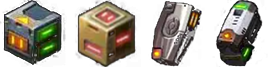
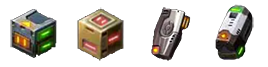
Primary edition of the physical engine has been constructed successfully; Beautified the texture of several items;

diff --git a/source/super/physics.py b/source/super/physics.py
@@ -1,0 +1,141 @@
+from cocos.director import director
+from cocos.euclid import Vector2
+from cocos.rect import Rect
+
+
+class Physics2(object):
+    def __init__(self, m=1, x=Vector2(0, 0), v=Vector2(0, 0), drag_c=0):
+
+        # Basic physical quantities
+        self._m = m
+        self._x = x
+        self._v = v
+        self._a = Vector2(0, 0)
+        self._f = Vector2(0, 0)
+
+        # Limits
+        self._max_v_norm = None
+        self._max_a_norm = None
+
+        self._x_boundary = Rect(0, 0, *director.get_window_size())
+
+        # About External Force
+        self._ex_force = {}
+        # Coefficient of air drag
+        self.drag_c = drag_c
+        # Scale of motion
+        self.motion_scale = 1
+
+    def update(self, dt):
+        self._update_drag()
+
+        # Kinetics Formulas
+        dv = self.a * dt
+        dx = self.v * dt + 1/2 * self.a * dt ** 2
+
+        self.v += dv
+        self.x += dx * self.motion_scale
+
+    def _update_drag(self):
+        # if abs(self.v) < 0.25:
+        #     self.v = Vector2(0, 0)
+
+        try:
+            value = - self.v.normalized() * self.drag_c * abs(self.v) ** 2
+            self.reforce('air_drag', value)
+        except OverflowError:
+            raise OverflowError(str(self.v))
+
+    def _set_m(self, m):
+        if m > 0:
+            self._m = m
+
+    def _set_x(self, x):
+        if self.boundary is not None:
+            if not self.boundary.contains(*x[:]):
+                if not self.boundary.left <= x[0] <= self.boundary.right:
+                    if x[0] < self.boundary.left:
+                        self._x[0] = self.boundary.left
+                    else:
+                        self._x[0] = self.boundary.right
+                    self._v[0] = 0
+                if not self.boundary.bottom <= x[1] <= self.boundary.top:
+                    if x[1] < self.boundary.bottom:
+                        self._x[1] = self.boundary.bottom
+                    else:
+                        self._x[1] = self.boundary.top
+                    self._v[1] = 0
+                return
+        self._x = x
+
+    def _set_v(self, v):
+        if self.max_v is not None:
+            if v > self.max_v:
+                return
+        self._v = v
+
+    def _set_a(self, a):
+        if self.max_a is not None:
+            if a > self.max_a:
+                return
+        self._a = a
+        self._f = self._m * self._a
+
+    def _set_f(self, f):
+        if self.max_a is not None:
+            if f > self.m * self.max_a:
+                return
+        self._f = f
+        self._a = self._f / self._m
+
+    def _set_max_v_norm(self, max_v_norm):
+        self._max_v_norm = max_v_norm
+
+    def _set_max_a_norm(self, max_a_norm):
+        self._max_a_norm = max_a_norm
+
+    def _set_x_boundary(self, boundaries):
+        self._x_boundary = boundaries
+
+    m = property(lambda self: self._m, _set_m)
+
+    x = property(lambda self: self._x, _set_x)
+
+    v = property(lambda self: self._v, _set_v)
+
+    a = property(lambda self: self._a, _set_a)
+
+    f = property(lambda self: self._f, _set_f)
+
+    max_v = property(lambda self: self._max_v_norm, _set_max_v_norm)
+
+    max_a = property(lambda self: self._max_a_norm, _set_max_a_norm)
+
+    boundary = property(lambda self: self._x_boundary, _set_x_boundary)
+
+    def still(self):
+        self.v = Vector2(0, 0)
+        self.a = Vector2(0, 0)
+        self._ex_force.clear()
+
+    def force(self, force_id, value):
+        assert isinstance(value, Vector2)
+
+        if force_id in self._ex_force.keys():
+            assert self._ex_force[force_id] == value
+            return
+
+        self._ex_force[force_id] = value
+        self.f += value
+
+    def release(self, force_id):
+        if force_id in self._ex_force.keys():
+            self.f -= self._ex_force[force_id]
+            del self._ex_force[force_id]
+
+    def reforce(self, force_id, value):
+        self.release(force_id)
+        self.force(force_id, value)
+
+    def collide(self, other):
+        assert isinstance(other, self.__class__)

diff --git a/source/test_scene/test_layer.py b/source/test_scene/test_layer.py
@@ -1,0 +1,47 @@
+from cocos.layer import ColorLayer
+
+from .actor import Actor, Vector2
+from public.defaults import Window
+from public.settings import current_settings
+
+key_map = current_settings['key_map']
+
+
+class TestLayer(ColorLayer):
+    is_event_handler = True
+
+    def __init__(self):
+        super(TestLayer, self).__init__(245, 222, 179, 255, Window.WIDTH, Window.HEIGHT)
+
+        self.actor = Actor()
+        self.add(self.actor)
+
+        self.schedule(self.update_)
+
+    def update_(self, dt):
+        self.actor.phy.update(dt)
+        self.actor.position = self.actor.phy.x
+
+    def on_key_press(self, symbol, _):
+        if symbol in key_map['battle_up']:
+            self.actor.phy.force('F_up', Vector2(0, 1000))
+        elif symbol in key_map['battle_down']:
+            self.actor.phy.force('F_down', Vector2(0, -1000))
+        elif symbol in key_map['battle_left']:
+            self.actor.phy.force('F_left', Vector2(-940, 0))
+        elif symbol in key_map['battle_right']:
+            self.actor.phy.force('F_right', Vector2(940, 0))
+        elif symbol in key_map['speed']:
+            self.actor.phy.motion_scale *= 2
+
+    def on_key_release(self, symbol, _):
+        if symbol in key_map['battle_up']:
+            self.actor.phy.release('F_up')
+        elif symbol in key_map['battle_down']:
+            self.actor.phy.release('F_down')
+        elif symbol in key_map['battle_left']:
+            self.actor.phy.release('F_left')
+        elif symbol in key_map['battle_right']:
+            self.actor.phy.release('F_right')
+        elif symbol in key_map['speed']:
+            self.actor.phy.motion_scale *= 0.5

diff --git a/source/inventory_scene/inventories.py b/source/inventory_scene/inventories.py
@@ -6,6 +6,9 @@ class EquipmentInventory(CardInventory):
     def __init__(self):
         super(EquipmentInventory, self).__init__()
 
+        # Category
+        self.category = 'equipment'
+
         # Init layout
         self.number = 15
         self.rows = 3
@@ -22,6 +25,9 @@ class EquipmentInventory(CardInventory):
 class MaterialInventory(CardInventory):
     def __init__(self):
         super(MaterialInventory, self).__init__()
+
+        # Category
+        self.category = 'material'
 
         # Init layout
         self.number = 16
@@ -40,6 +46,9 @@ class BlueprintInventory(CardInventory):
     def __init__(self):
         super(BlueprintInventory, self).__init__()
 
+        # Category
+        self.category = 'blueprint'
+
         # Init layout
         self.number = 17
         self.rows = 3
@@ -56,6 +65,9 @@ class BlueprintInventory(CardInventory):
 class ChestInventory(CardInventory):
     def __init__(self):
         super(ChestInventory, self).__init__()
+
+        # Category
+        self.category = 'chest'
 
         # Init layout
         self.number = 18

diff --git a/source/super/inventory.py b/source/super/inventory.py
@@ -20,6 +20,8 @@ class Inventory(Layer):
 
     def __init__(self):
         super(Inventory, self).__init__()
+        # What kind of items in the inventory
+        self.category = None
 
         # Create a batch to manage items
         self.slot_batch = BatchNode()
@@ -126,10 +128,13 @@ class Inventory(Layer):
 
     def _update_items(self):
         # TODO: Update arrangement of items by remove all items and re-add all items according to item list
-        for idx, data in enumerate(my_items):
-            item = Sprite(data['image'])
-            item.position = self.slots[idx].point_to_world((33.5, 46.5))
-            self.slots[idx].add(item)
+        idx = 0
+        for data in my_items:
+            if data['category'] == self.category:
+                item = Sprite(data['image'])
+                item.position = self.slots[idx].point_to_world((33.5, 46.5))
+                self.slots[idx].add(item)
+                idx += 1
 
     def _get_item_info(self, idx):
         # TODO: Get the info of item with index 'idx'

diff --git a/source/test_scene/actor.py b/source/test_scene/actor.py
@@ -1,0 +1,22 @@
+from cocos.sprite import Sprite
+
+from super.physics import Physics2, Vector2, Rect
+from public.defaults import Window
+from public.image import Test
+
+
+class Actor(Sprite):
+    def __init__(self):
+        super(Actor, self).__init__(Test.actor)
+
+        self.position = Window.WIDTH / 2, Window.HEIGHT / 2
+
+        self.phy = Physics2(m=1, x=Vector2(*self.position), drag_c=0.007)
+
+        # Set the boundary
+        self.phy.boundary = Rect(
+            self.width / 2,
+            self.height / 2,
+            Window.WIDTH - self.width,
+            Window.HEIGHT - self.height
+        )

diff --git a/source/public/image.py b/source/public/image.py
@@ -30,8 +30,17 @@ class Items:
 
     try:
         _equipment_set = resource.image("equipments.png")
+        _metal_set = resource.image("metals.png")
         _chest_set = resource.image("chests.png")
         equipments = ImageGrid(_equipment_set, 1, 5)
+        metals = ImageGrid(_metal_set, 1, 6)
         chests = ImageGrid(_chest_set, 1, 4)
     except resource.ResourceNotFoundException as e:
         raise SystemExit(e)
+
+
+class Test:
+    resource.path.append("../res/image/test/")
+    resource.reindex()
+
+    actor = resource.image("actor.png")

diff --git a/source/public/virtual_db.py b/source/public/virtual_db.py
@@ -42,4 +42,20 @@ _item3 = {
     'image': Items.chests[0],
 }
 
-my_items = [_item1, _item2, _item3]
+# my_items = [_item1, _item2, _item3]
+
+my_items = []
+for i in range(5):
+    item = {'category': 'equipment', 'image': Items.equipments[i], 'test': i}
+    my_items.append(item)
+
+for i in range(6):
+    item = {'category': 'material', 'image': Items.metals[i]}
+    my_items.append(item)
+
+for i in range(4):
+    item = {'category': 'chest', 'image': Items.chests[i]}
+    my_items.append(item)
+
+# for item in my_items:
+#     print(item)

diff --git a/source/main.py b/source/main.py
@@ -2,6 +2,7 @@ from pyglet import font
 from cocos.director import director
 
 from start_scene.start_scene import StartScene
+from test_scene.test_scene import TestScene
 from public.defaults import Window
 
 
@@ -21,7 +22,8 @@ def run_game():
                   height=Window.HEIGHT,
                   caption="Core OOC"
                   )
-    director.run(StartScene())
+    # director.run(StartScene())
+    director.run(TestScene())
 
 
 if __name__ == '__main__':

diff --git a/source/test_scene/test_scene.py b/source/test_scene/test_scene.py
@@ -1,0 +1,11 @@
+from cocos.scene import Scene
+
+from .test_layer import TestLayer
+
+
+class TestScene(Scene):
+    def __init__(self):
+        super(TestScene, self).__init__()
+
+        self.add(TestLayer())
+        
